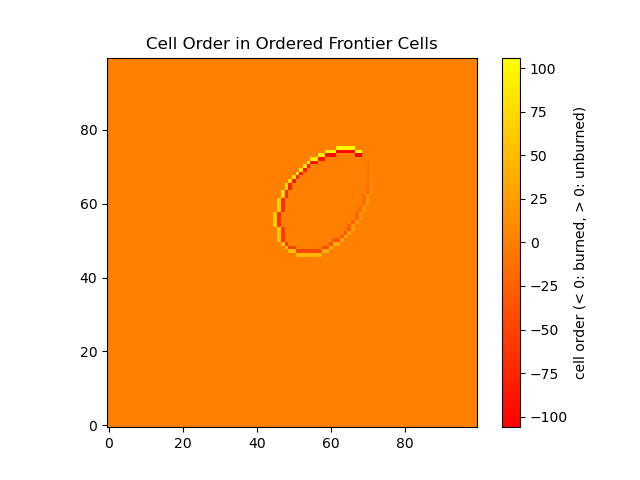
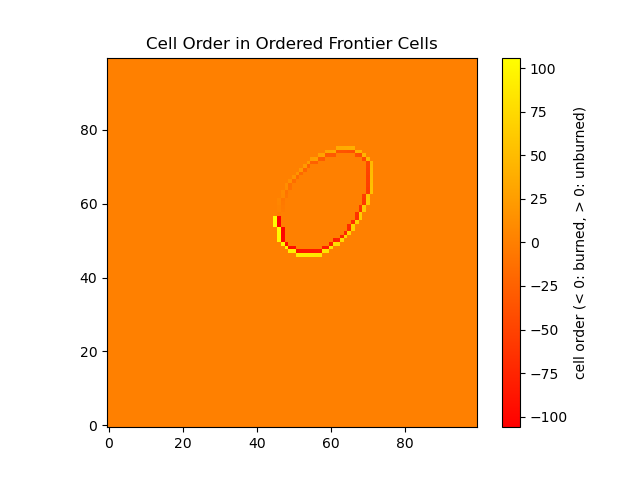
Extended order_frontier_cells to return a list of dicts, one per fire perimer on the map

Changed region(s): [[0.4062, 0.2812, 0.5938, 0.5625], [0.5312, 0.4375, 0.5625, 0.5]]

diff --git a/docs/index.html b/docs/index.html
@@ -14966,7 +14966,6 @@ Fork: {'Min': 2081.852, 'Max': 2789.6057, 'Mean': 2539.8635, 'Stdev': 171.96436}
     <span class="org-keyword">return</span> frontier_corner_graph
 
 
-<span class="org-comment-delimiter"># </span><span class="org-comment">TODO: Remove debugging print statements</span>
 <span class="org-keyword">def</span> <span class="org-function-name">group_corners_by_type</span>(frontier_corner_graph):
     <span class="org-variable-name">parent_corners</span> <span class="org-operator">=</span> <span class="org-builtin">set</span>(frontier_corner_graph.keys())
     <span class="org-variable-name">child_corners</span>  <span class="org-operator">=</span> <span class="org-builtin">set</span>()
@@ -14977,22 +14976,6 @@ Fork: {'Min': 2081.852, 'Max': 2789.6057, 'Mean': 2539.8635, 'Stdev': 171.96436}
             child_corners.add(corner)
     <span class="org-variable-name">root_corners</span> <span class="org-operator">=</span> <span class="org-builtin">set</span>.difference(parent_corners, child_corners)
     <span class="org-variable-name">leaf_corners</span> <span class="org-operator">=</span> <span class="org-builtin">set</span>.difference(child_corners, parent_corners)
-
-    <span class="org-keyword">if</span> <span class="org-builtin">len</span>(root_corners) <span class="org-operator">==</span> 0:
-        <span class="org-keyword">if</span> <span class="org-builtin">len</span>(leaf_corners) <span class="org-operator">==</span> 0:
-            <span class="org-comment-delimiter"># </span><span class="org-comment">Begin anywhere and traverse one or more cycles</span>
-            <span class="org-builtin">print</span>(<span class="org-string">"Only cycles detected."</span>)
-        <span class="org-keyword">else</span>:
-            <span class="org-comment-delimiter"># </span><span class="org-comment">Begin anywhere and traverse one or more cycles with one or more branching nodes that terminate on leaves</span>
-            <span class="org-builtin">print</span>(<span class="org-string">"No roots but some trailing leaves exist."</span>)
-    <span class="org-keyword">else</span>:
-        <span class="org-keyword">if</span> <span class="org-builtin">len</span>(leaf_corners) <span class="org-operator">==</span> 0:
-            <span class="org-comment-delimiter"># </span><span class="org-comment">Begin on roots and traverse one or more cycles with branching nodes that continue the cycles</span>
-            <span class="org-builtin">print</span>(<span class="org-string">"No leaves but some trailing roots exist."</span>)
-        <span class="org-keyword">else</span>:
-            <span class="org-comment-delimiter"># </span><span class="org-comment">Begin on roots and traverse one or more cycles with one or more branching nodes that terminate on leaves</span>
-            <span class="org-builtin">print</span>(<span class="org-string">"Both roots and leaves detected."</span>)
-
     <span class="org-keyword">return</span> {
         <span class="org-string">"parent_corners"</span>: parent_corners,
         <span class="org-string">"child_corners"</span> : child_corners,
@@ -15125,8 +15108,22 @@ Fork: {'Min': 2081.852, 'Max': 2789.6057, 'Mean': 2539.8635, 'Stdev': 171.96436}
     <span class="org-variable-name">frontier_sides</span>         <span class="org-operator">=</span> get_frontier_sides(frontier_cells)
     <span class="org-variable-name">frontier_corner_graph</span>  <span class="org-operator">=</span> get_frontier_corner_graph(frontier_sides)
     <span class="org-variable-name">corner_info</span>            <span class="org-operator">=</span> group_corners_by_type(frontier_corner_graph)
-    <span class="org-variable-name">corner_sequence</span>        <span class="org-operator">=</span> iterative_graph_traversal(frontier_corner_graph, <span class="org-builtin">list</span>(corner_info[<span class="org-string">"parent_corners"</span>])[0]) <span class="org-comment-delimiter"># </span><span class="org-comment">FIXME: Explore all paths from the root_corners until all corners have been visited. Return a list of lists.</span>
-    <span class="org-variable-name">ordered_frontier_cells</span> <span class="org-operator">=</span> corners_to_ordered_frontier_cells(corner_sequence)
+    <span class="org-variable-name">ordered_frontier_cells</span> <span class="org-operator">=</span> []
+
+    <span class="org-comment-delimiter"># </span><span class="org-comment">Process all linestrings</span>
+    <span class="org-keyword">for</span> root_corner <span class="org-keyword">in</span> corner_info[<span class="org-string">"root_corners"</span>]:
+        <span class="org-variable-name">corner_sequence</span> <span class="org-operator">=</span> iterative_graph_traversal(frontier_corner_graph, root_corner)
+        <span class="org-keyword">for</span> corner <span class="org-keyword">in</span> corner_sequence:
+            frontier_corner_graph.pop(corner, <span class="org-constant">None</span>)
+        ordered_frontier_cells.append(corners_to_ordered_frontier_cells(corner_sequence))
+
+    <span class="org-comment-delimiter"># </span><span class="org-comment">Process all rings</span>
+    <span class="org-keyword">while</span>(<span class="org-builtin">len</span>(frontier_corner_graph) <span class="org-operator">&gt;</span> 0):
+        <span class="org-variable-name">parent_corner</span>   <span class="org-operator">=</span> <span class="org-builtin">next</span>(<span class="org-builtin">iter</span>(frontier_corner_graph))
+        <span class="org-variable-name">corner_sequence</span> <span class="org-operator">=</span> iterative_graph_traversal(frontier_corner_graph, parent_corner)
+        <span class="org-keyword">for</span> corner <span class="org-keyword">in</span> corner_sequence:
+            frontier_corner_graph.pop(corner, <span class="org-constant">None</span>)
+        ordered_frontier_cells.append(corners_to_ordered_frontier_cells(corner_sequence))
 
     <span class="org-keyword">return</span> ordered_frontier_cells
 </pre>
@@ -15183,8 +15180,8 @@ Fork: {'Min': 2081.852, 'Max': 2789.6057, 'Mean': 2539.8635, 'Stdev': 171.96436}
 
 
 <span class="org-variable-name">ordered_frontier_cells</span> <span class="org-operator">=</span> order_frontier_cells(frontier_cells)
-<span class="org-variable-name">ordered_burned_cells</span>   <span class="org-operator">=</span> ordered_frontier_cells[<span class="org-string">"burned_cells"</span>]
-<span class="org-variable-name">ordered_unburned_cells</span> <span class="org-operator">=</span> ordered_frontier_cells[<span class="org-string">"unburned_cells"</span>]
+<span class="org-variable-name">ordered_burned_cells</span>   <span class="org-operator">=</span> ordered_frontier_cells[0][<span class="org-string">"burned_cells"</span>]
+<span class="org-variable-name">ordered_unburned_cells</span> <span class="org-operator">=</span> ordered_frontier_cells[0][<span class="org-string">"unburned_cells"</span>]
 
 
 <span class="org-variable-name">unordered_matrix</span> <span class="org-operator">=</span> np.zeros((100,100), dtype<span class="org-operator">=</span>np.int8)

diff --git a/src/pyretechnics/suppression.py b/src/pyretechnics/suppression.py
@@ -59,7 +59,6 @@ def get_frontier_corner_graph(frontier_sides):
     return frontier_corner_graph
 
 
-# TODO: Remove debugging print statements
 def group_corners_by_type(frontier_corner_graph):
     parent_corners = set(frontier_corner_graph.keys())
     child_corners  = set()
@@ -70,22 +69,6 @@ def group_corners_by_type(frontier_corner_graph):
             child_corners.add(corner)
     root_corners = set.difference(parent_corners, child_corners)
     leaf_corners = set.difference(child_corners, parent_corners)
-
-    if len(root_corners) == 0:
-        if len(leaf_corners) == 0:
-            # Begin anywhere and traverse one or more cycles
-            print("Only cycles detected.")
-        else:
-            # Begin anywhere and traverse one or more cycles with one or more branching nodes that terminate on leaves
-            print("No roots but some trailing leaves exist.")
-    else:
-        if len(leaf_corners) == 0:
-            # Begin on roots and traverse one or more cycles with branching nodes that continue the cycles
-            print("No leaves but some trailing roots exist.")
-        else:
-            # Begin on roots and traverse one or more cycles with one or more branching nodes that terminate on leaves
-            print("Both roots and leaves detected.")
-
     return {
         "parent_corners": parent_corners,
         "child_corners" : child_corners,
@@ -218,8 +201,22 @@ def order_frontier_cells(frontier_cells):
     frontier_sides         = get_frontier_sides(frontier_cells)
     frontier_corner_graph  = get_frontier_corner_graph(frontier_sides)
     corner_info            = group_corners_by_type(frontier_corner_graph)
-    corner_sequence        = iterative_graph_traversal(frontier_corner_graph, list(corner_info["parent_corners"])[0]) # FIXME: Explore all paths from the root_corners until all corners have been visited. Return a list of lists.
-    ordered_frontier_cells = corners_to_ordered_frontier_cells(corner_sequence)
+    ordered_frontier_cells = []
+
+    # Process all linestrings
+    for root_corner in corner_info["root_corners"]:
+        corner_sequence = iterative_graph_traversal(frontier_corner_graph, root_corner)
+        for corner in corner_sequence:
+            frontier_corner_graph.pop(corner, None)
+        ordered_frontier_cells.append(corners_to_ordered_frontier_cells(corner_sequence))
+
+    # Process all rings
+    while(len(frontier_corner_graph) > 0):
+        parent_corner   = next(iter(frontier_corner_graph))
+        corner_sequence = iterative_graph_traversal(frontier_corner_graph, parent_corner)
+        for corner in corner_sequence:
+            frontier_corner_graph.pop(corner, None)
+        ordered_frontier_cells.append(corners_to_ordered_frontier_cells(corner_sequence))
 
     return ordered_frontier_cells
 # order-frontier-cells ends here
